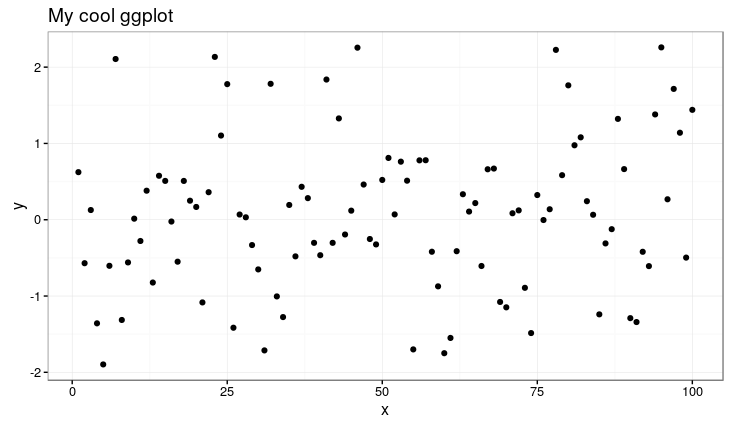
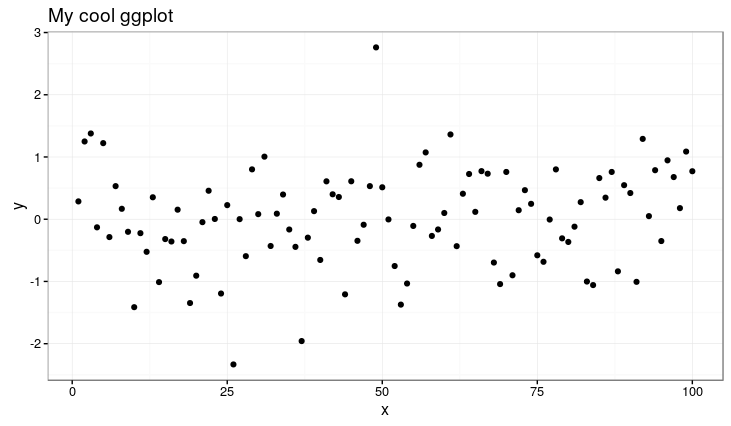
added subsetting

diff --git a/README.md b/README.md
@@ -15,12 +15,11 @@ devtools::install_github("jonocarroll/ggghost")
 
 ## Examples
 
+use `%g<%` to initiate storage of the `ggplot` calls then add to the call with each logical call on a new line (@hrbrmstr style)
+
 ```{r}
 tmp <- data.frame(x = 1:100, y = rnorm(100))
 
-## use %g<% to initiate storage of the ggplot calls
-## then add to the call with each logical call on 
-## a new line (@hrbrmstr style)
 library(ggplot2)
 z %g<% ggplot(tmp, aes(x,y))
 z <- z + geom_point()
@@ -28,7 +27,7 @@ z <- z + theme_bw()
 z <- z + labs(title = "My cool ggplot")
 ```
 
-This invisibly stores the `ggplot` calls in a list.
+This invisibly stores the `ggplot` calls in a list which can be reviewed
 
 ```{r}
 summary(z)
@@ -50,6 +49,20 @@ summary(z, combine = TRUE)
 z
 ```
 ![](https://github.com/jonocarroll/ggghost/raw/master/inst/img/example1.png)
+
+Better yet, the list can be subset, removing parts of the call
+```{r}
+z2 <- subset(z, c(1,2,4))
+#> [[1]]
+#> ggplot(tmp, aes(x, y))
+#> 
+#> [[2]]
+#> geom_point()
+#> 
+#> [[3]]
+#> labs(title = "My cool ggplot")
+```
+![](https://github.com/jonocarroll/ggghost/raw/master/inst/img/example2.png)
 
 ```{r}
 ## the object still contains all the grob info
